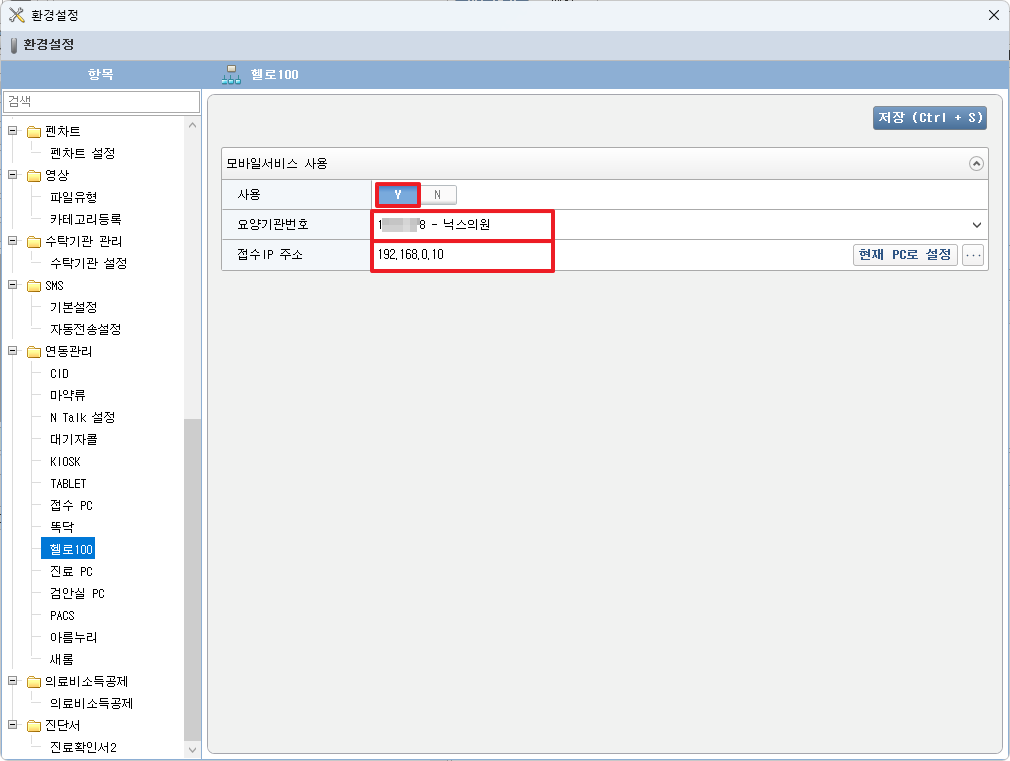
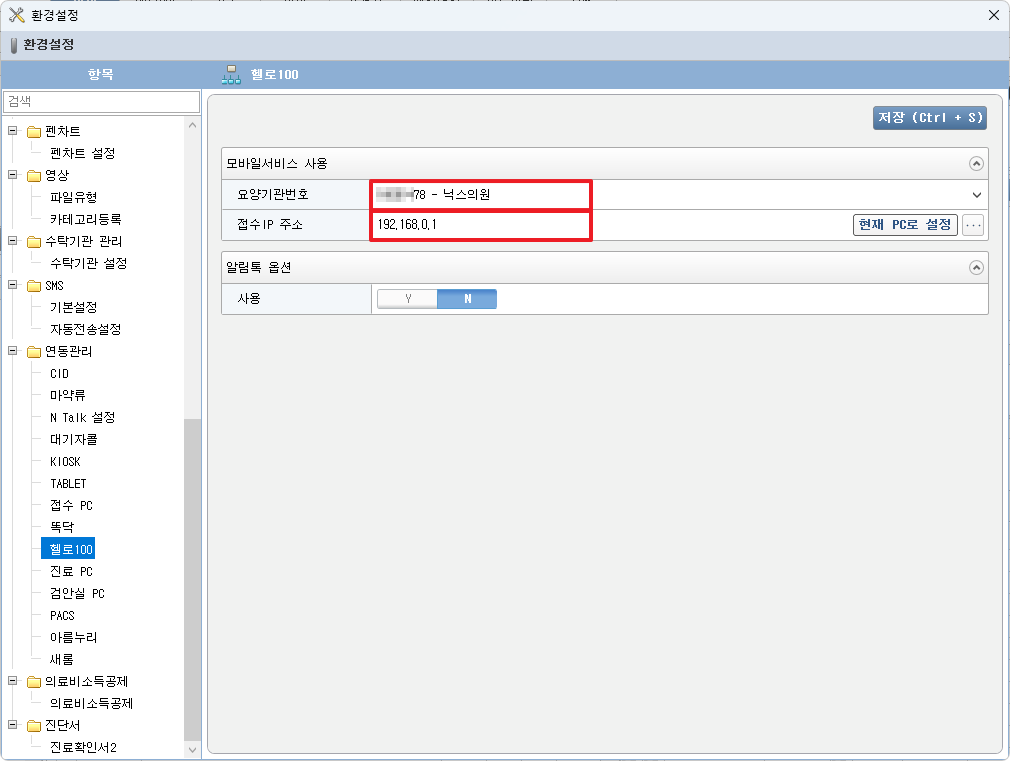
25-0415 헬로100 사용자 가이드 - 헬로100 아이콘 기능 추가

Changed region(s): [[0.2149, 0.2116, 0.9822, 0.4231]]

diff --git a/_docs/main4/sub4/page8.md b/_docs/main4/sub4/page8.md
@@ -31,13 +31,34 @@ pageOrder: 8
         <p><a href="/images/{{page.url}}_1.png" target="_blank"><img src="/images/{{page.url}}_1.png" alt="" width="100%"></a></p>
         <ul>
             <ul>
-                <li>“사용” 항목에서 [Y] 선택</li>
                 <li>“요양기관번호” 항목에서 헬로100 서비스 가입한 요양기관 선택</li>
                 <li>“접수 IP 주소” 항목에서 헬로100 접수 연동 사용하고자 하는 PC 의 IP주소 입력</li>
             </ul>
         </ul>
         <div>   &nbsp;<b>※ 접수 연동 PC는 업무 시간 중 항상 차트를 실행 중이어야 합니다.</b></div>
         <p><a href="/images/{{page.url}}_2.png" target="_blank"><img src="/images/{{page.url}}_2.png" alt="" width="1057px"></a></p>
+        <ul>
+            <li>헬로100 아이콘 표시</li>
+            <ul>
+                <li>헬로100 사용 병원으로 확인된 경우 상태바에서 [ Hello100 ] 아이콘 표시</li>
+            </ul>
+        </ul>
+        <p><a href="/images/{{page.url}}_49.png" target="_blank"><img src="/images/{{page.url}}_49.png" alt="" width="75%"></a></p>
+        <ul>
+            <ul>
+                <li>환경설정 에서 “접수 IP 주소” 설정된 PC는 안테나 이미지 표시</li>
+            </ul>
+        </ul>
+        <p><a href="/images/{{page.url}}_50.png" target="_blank"><img src="/images/{{page.url}}_50.png" alt="" width="75%"></a></p>
+        <ul>
+            <li>헬로100 아이콘 메뉴</li>
+            <ul>
+                <li>관리자 페이지 : 관리자 페이지 연결</li>
+                <li>수동 갱신 : 대기자 순번 수동 새로고침</li>
+                <li>설정 : [환경설정] - [헬로100] 메뉴 팝업</li>
+            </ul>
+        </ul>
+        <p><a href="/images/{{page.url}}_51.png" target="_blank"><img src="/images/{{page.url}}_51.png" alt="" width="247px"></a></p>
         <div><br></div>
         <div><br></div>
         <div>
@@ -74,6 +95,7 @@ pageOrder: 8
             <ul>
                 <li>[기준정보] - [직원정보] 메뉴로 이동</li>
                 <li>헬로100 진료실 설정하고자 하는 의사를 선택</li>
+                <li>“헬로100 사용” 체크</li>
             </ul>
         </ul>
         <p><a href="/images/{{page.url}}_7.png" target="_blank"><img src="/images/{{page.url}}_7.png" alt="" width="100%"></a></p>
